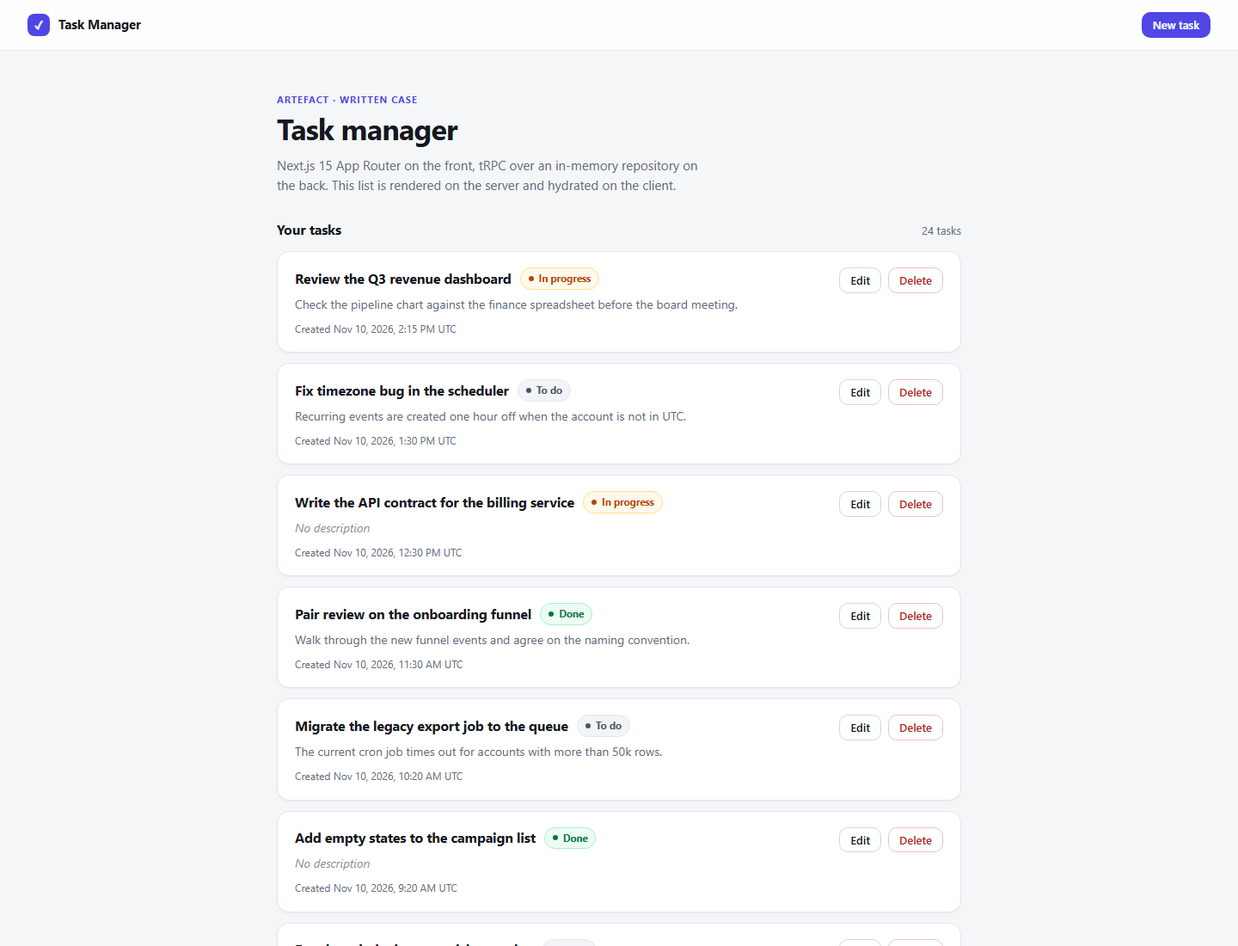
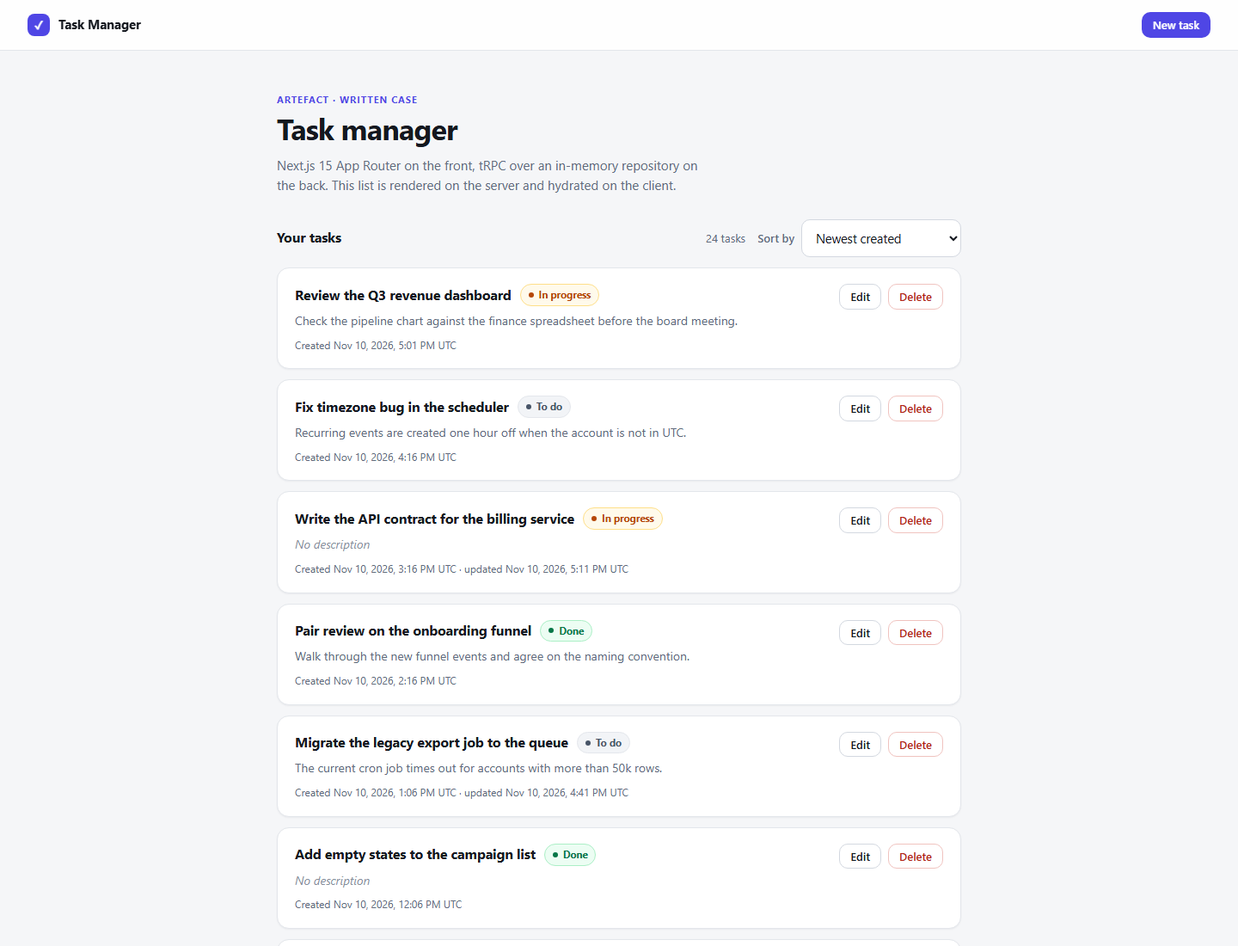
Document the update timestamp, the ordering and the test count
The README and the written answers now explain dataAtualizacao, the five orders exposed by the API, the URL-driven sort and the new comparison rules. The ASCII diagrams were rebuilt at a fixed width so the borders line up, and the screenshots were captured again against the production build, including the recently-updated view.

diff --git a/docs/answers/part-2-practical.md b/docs/answers/part-2-practical.md
@@ -26,36 +26,39 @@ npm run dev
 | Language      | TypeScript (`strict` + `noUncheckedIndexedAccess`) | 5.9           |
 | Monorepo      | npm workspaces                                     | npm 10        |
 
-The case specifies four task fields: `id`, `titulo` (required), `descricao` (optional) and `dataCriacao`. I kept those names as requested and added an optional `status` field (`todo`, `in_progress` or `done`) to make each task's state visible in the list.
+The case specifies four task fields: `id`, `titulo` (required), `descricao` (optional) and `dataCriacao`. I kept those names as requested, added an optional `status` field (`todo`, `in_progress` or `done`) to make each task's state visible in the list, and a `dataAtualizacao` timestamp that follows the same naming convention.
+
+`dataAtualizacao` starts equal to `dataCriacao` and is bumped on every edit. It gives the list a second sortable dimension (what changed most recently, regardless of when it was created) and lets the row show "updated" only when that actually happened.
 
 The status defaults to `todo`, so creating a task with only the required fields still works.
 
 ## 2. Architecture
 
 ```text
-┌───────────────────────────────────────────────────────────────────────────┐
-│ frontend/ — Next.js 15, App Router                                        │
-│                                                                           │
-│  app/page.tsx              Server Component: prefetch + HydrateClient    │
-│  app/tasks/new              Server Component: renders the form shell      │
-│  app/tasks/[id]/edit        Server Component: calls tasks.getById         │
-│  components/task-list       Client: useInfiniteQuery + delete mutation    │
-│  components/task-form       Client: useTaskForm + create/update mutation  │
+┌────────────────────────────────────────────────────────────────────────────┐
+│ frontend/ — Next.js 15, App Router                                         │
+│                                                                            │
+│  app/page.tsx              Server Component: prefetch + HydrateClient      │
+│  app/tasks/new              Server Component: renders the form shell       │
+│  app/tasks/[id]/edit        Server Component: calls tasks.getById          │
+│  components/task-list       Client: useInfiniteQuery + delete mutation     │
+│  components/task-form       Client: useTaskForm + create/update mutation   │
 │  app/api/trpc/[trpc]        Route Handler: the HTTP API entry point        │
-└──────────────────────────────────┬────────────────────────────────────────┘
+└───────────────────────────────────┬────────────────────────────────────────┘
                                    │ imports the workspace package
-┌──────────────────────────────────▼────────────────────────────────────────┐
-│ backend/ — @artefact/backend (no Next.js dependency)                      │
-│                                                                           │
-│  router.ts                 appRouter: tasks + health                      │
-│  trpc.ts                   initTRPC, superjson, errorFormatter, timing    │
-│  context.ts                per-request context, repository injection      │
-│  modules/tasks/                                                        │
+┌───────────────────────────────────▼────────────────────────────────────────┐
+│ backend/ — @artefact/backend (no Next.js dependency)                       │
+│                                                                            │
+│  router.ts                 appRouter: tasks + health                       │
+│  trpc.ts                   initTRPC, superjson, errorFormatter, timing     │
+│  context.ts                per-request context, repository injection       │
+│  modules/tasks/                                                            │
+│    task.constants.ts       limits, status order and sort values            │
 │    task.schema.ts          Zod inputs, limits and domain types             │
 │    task.router.ts          list / getById / create / update / delete       │
-│    task.repository.ts      TaskRepository interface + in-memory adapter   │
+│    task.repository.ts      TaskRepository interface + in-memory adapter    │
 │    task.seed.ts            24 fictional tasks                              │
-└───────────────────────────────────────────────────────────────────────────┘
+└────────────────────────────────────────────────────────────────────────────┘
 ```
 
 I kept the backend in its own workspace package instead of tying its implementation directly to Next.js. It contains the tRPC router, validation schemas and `TaskRepository` interface, and has no dependency on the frontend framework.
@@ -72,14 +75,16 @@ The application exposes the tRPC API through:
 /api/trpc/*
 ```
 
-| Procedure       | Type     | Input                                                       | Possible errors            |
-| --------------- | -------- | ----------------------------------------------------------- | -------------------------- |
-| `tasks.list`    | Query    | `{ limit?: 1..50 (default 8), cursor?: string }`            | `BAD_REQUEST`              |
-| `tasks.getById` | Query    | `{ id }`                                                    | `NOT_FOUND`                |
-| `tasks.create`  | Mutation | `{ titulo, descricao?, status? }`                           | `BAD_REQUEST`              |
-| `tasks.update`  | Mutation | `{ id, titulo?, descricao?, status? }` (at least one field) | `BAD_REQUEST`, `NOT_FOUND` |
-| `tasks.delete`  | Mutation | `{ id }`                                                    | `NOT_FOUND`                |
-| `health`        | Query    | No input                                                    | —                          |
+| Procedure       | Type     | Input                                                             | Possible errors            |
+| --------------- | -------- | ----------------------------------------------------------------- | -------------------------- |
+| `tasks.list`    | Query    | `{ limit?: 1..50 (default 8), cursor?: string, sort?: TaskSort }` | `BAD_REQUEST`              |
+| `tasks.getById` | Query    | `{ id }`                                                          | `NOT_FOUND`                |
+| `tasks.create`  | Mutation | `{ titulo, descricao?, status? }`                                 | `BAD_REQUEST`              |
+| `tasks.update`  | Mutation | `{ id, titulo?, descricao?, status? }` (at least one field)       | `BAD_REQUEST`, `NOT_FOUND` |
+| `tasks.delete`  | Mutation | `{ id }`                                                          | `NOT_FOUND`                |
+| `health`        | Query    | No input                                                          | —                          |
+
+`TaskSort` is `created-desc` (default), `created-asc`, `updated-desc`, `titulo-asc` or `status-asc`. The value is validated by the same Zod enum the UI uses, so an unsupported order is rejected with `BAD_REQUEST` instead of silently falling back on the server.
 
 The validation rules are defined in `task.schema.ts` and reused by the frontend and backend. The form uses `createTaskInput.safeParse` to provide immediate feedback, while the tRPC procedure validates the request again on the server.
 
@@ -103,7 +108,7 @@ For example, a validation response can include:
 
 Stack traces are available during development and removed in production. An unexpected server error is replaced by a generic message, so an internal detail never reaches the browser. When a task does not exist, the API returns `NOT_FOUND` with a message explaining that the task may have already been deleted. The edit page uses the same condition to render the Next.js not-found page.
 
-The `dataCriacao` field remains a JavaScript `Date` on both sides. I use superjson to preserve the date type during transport, avoiding manual conversion from ISO strings in the components.
+The `dataCriacao` and `dataAtualizacao` fields remain JavaScript `Date` objects on both sides. I use superjson to preserve the date type during transport, avoiding manual conversion from ISO strings in the components.
 
 ### Pagination
 
@@ -129,7 +134,15 @@ The create page is a Server Component that renders the client-side form. The edi
 
 ## 5. Behaviour and user experience
 
-The list displays the task title, description, status and creation date. Tasks are ordered from newest to oldest, with eight items loaded per page.
+The list displays the task title, description, status and creation date, with eight items loaded per page. When a task has been edited, the row also shows when it was last updated.
+
+### Ordering
+
+The list can be ordered by creation (newest or oldest), last update, title or status. The chosen order lives in the URL (`/?sort=updated-desc`), so the server component prefetches exactly that view and the link can be shared or bookmarked.
+
+The seed data makes this visible: eight of the 24 tasks were edited after being created, so "recently updated" produces a different order than "newest created". Status uses the workflow order (`todo`, `in_progress`, `done`) instead of alphabetical order, and title sorting ignores case.
+
+Each order is implemented as a total order with the task `id` as the tiebreaker. Without it, two tasks with the same timestamp could swap places between two page requests.
 
 ### Infinite scroll
 
@@ -195,6 +208,10 @@ _Figure 5 — Success feedback is displayed and the list is refreshed._
 
 _Figure 6 — On smaller screens, the task actions move below the task content._
 
+![The list ordered by most recently updated.](../screenshots/07-sort-updated.png)
+
+_Figure 7 — Ordering by last update, chosen in the list and reflected in the URL._
+
 ## 7. Tests and verification
 
 The project provides a verification command:
@@ -205,11 +222,11 @@ npm run verify
 
 It runs ESLint, a Prettier check, the TypeScript checks, the Vitest suites of both workspaces and the Next.js production build. CI runs this same command, so the local gate and the pipeline cannot drift.
 
-The backend has 24 tests. Most of them exercise the real router with an injected repository, without HTTP or mocks. Four go through the same `fetchRequestHandler` adapter the app mounts at `/api/trpc`, because that is the only place where the two promises of the wire can actually be verified: `dataCriacao` arrives as a `Date` (superjson) and a rejected input carries `fieldErrors`.
+The backend has 33 tests. Most of them exercise the real router with an injected repository, without HTTP or mocks. Four go through the same `fetchRequestHandler` adapter the app mounts at `/api/trpc`, because that is the only place where the promises of the wire can actually be verified: `dataCriacao` and `dataAtualizacao` arrive as `Date` objects (superjson) and a rejected input carries `fieldErrors`.
 
 The tests cover:
 
-1. Creating a task generates a unique ID, trims the title and normalises a whitespace-only description to `null`; the status defaults to `todo` when omitted.
+1. Creating a task generates a unique ID, trims the title and normalises a whitespace-only description to `null`; the status defaults to `todo` when omitted, and both timestamps start equal.
 2. An empty title is rejected with `BAD_REQUEST`; the exact title limit is accepted and one character more is rejected.
 3. The same boundary check for the description (1000 accepted, 1001 rejected).
 4. An unknown status is rejected.
@@ -217,19 +234,23 @@ The tests cover:
 6. An unknown cursor falls back to the first page, and the limit defaults to 8 when omitted.
 7. An invalid page size (0 or 51) is rejected.
 8. Updating a task changes only the fields included in the request, trims the title, and rejects an update without any field.
-9. An empty description clears the existing description.
-10. Reading, updating and deleting a task that does not exist return `NOT_FOUND`.
-11. Deleting a task succeeds once and returns `NOT_FOUND` when attempted again.
-12. The seed data has 24 tasks, keeps `dataCriacao` as a `Date` and passes the entity schema.
-13. A task returned to a caller cannot be used to mutate the store.
-14. Over HTTP: the date survives the wire, invalid input returns `BAD_REQUEST` with `fieldErrors.titulo`, a missing task returns 404, and in production an unexpected error exposes neither its message nor its stack.
+9. Updating keeps `dataCriacao` and bumps `dataAtualizacao`.
+10. An empty description clears the existing description.
+11. Reading, updating and deleting a task that does not exist return `NOT_FOUND`.
+12. Deleting a task succeeds once and returns `NOT_FOUND` when attempted again.
+13. The seed data has 24 tasks, keeps both timestamps as `Date` objects and passes the entity schema.
+14. A task returned to a caller cannot be used to mutate the store.
+15. Sorting works for creation (both directions), last update, title (case-insensitive) and status (workflow order), and the default order is unchanged.
+16. An unsupported sort value is rejected, and pagination keeps the requested order without repeating or skipping an item.
+17. With the seeded data, ordering by creation and by last update produce different sequences.
+18. Over HTTP: the dates survive the wire, invalid input returns `BAD_REQUEST` with `fieldErrors.titulo`, a missing task returns 404, and in production an unexpected error exposes neither its message nor its stack.
 
-The frontend has 9 tests for the pure logic behind the form and the error handling: the shared field-error mapping and the message extraction from a `TRPCClientError`.
+The frontend has 13 tests for the pure logic behind the list, the form and the error handling: the sort parser (including unknown values in the URL), the shared list input, the field-error mapping and the message extraction from a `TRPCClientError`.
 
 I also checked the production build manually:
 
-- **HTTP smoke test:** Against `npm start`, I tested create, read, update, list, delete, repeated delete and empty-title validation. I checked title trimming, description normalisation, date deserialization, `NOT_FOUND` on the second delete and `BAD_REQUEST` with `fieldErrors.titulo` for an empty title.
-- **SSR check:** I inspected the raw HTML returned for `/` and confirmed that it contains the task title `Review the Q3 revenue dashboard`. This verifies that the task content is present in the initial HTML response rather than being added only after a client-side request.
+- **HTTP smoke test:** Against `npm start`, I tested create, read, update, list, delete, repeated delete and empty-title validation. I checked title trimming, description normalisation, date deserialization, `dataAtualizacao` being bumped by an update, `NOT_FOUND` on the second delete and `BAD_REQUEST` with `fieldErrors.titulo` for an empty title.
+- **SSR check:** I inspected the raw HTML returned for `/` and for `/?sort=updated-desc`, and confirmed that each one starts with the task expected for that order. This verifies that the ordering is applied on the server and that the task content is present in the initial HTML response rather than being added only after a client-side request.
 - **Infinite-scroll check:** Using Chrome DevTools Protocol, I confirmed that 16 rows were present after hydration and all 24 were loaded after scrolling, followed by the end-of-list message.
 
 The `npm run verify` command completes successfully. The CI workflow runs the same command.
@@ -283,6 +304,7 @@ Some decisions were made to keep the implementation aligned with the scope of th
 | Shared Zod schemas                       | Keeps frontend and backend validation consistent                            | The validation schema is also included in the client bundle                        |
 | superjson                                | Preserves `Date` values across the API boundary                             | Adds some serialization overhead                                                   |
 | Cursor-based pagination                  | Handles changes to the list more predictably while users browse             | The cursor is an implementation detail that the UI does not interpret              |
+| Sorting evaluated per request            | One implementation covers every order without extra indexes or caching      | Editing an item between two pages can move it out of the current cursor window     |
 | In-memory repository behind an interface | Meets the requirements without introducing a database                       | Data is lost on restart, and the store is limited to a single application instance |
 | Hand-written CSS                         | Avoids adding another dependency for a small application                    | Reusable styling utilities would be useful as the interface grows                  |
 

diff --git a/README.md b/README.md
@@ -5,7 +5,8 @@ A small task manager built for the **Software Engineer (Senior, Brazil)** writte
 with server-side rendering on the list page and an infinite-scroll bonus.
 
 > The full written answers (theory + practical) are in [`docs/answers`](docs/answers).
-> The generated PDF submission is not committed on purpose — it contains personal data.
+> `npm run submission` turns this README and those answers into two PDFs; the output is
+> not committed on purpose — it contains personal data.
 
 ![Task list](docs/screenshots/01-task-list.png)
 
@@ -51,30 +52,36 @@ Quality gate (the same command CI runs):
 npm run verify       # lint -> format:check -> typecheck -> test -> build
 ```
 
+Submission documents (needs Chrome or Edge installed):
+
+```bash
+npm run submission   # docs/answers + README -> PDF, written to submission/
+```
+
 ## Architecture
 
 ```
 ┌──────────────────────────────────────────────────────────────────────┐
 │ frontend/  (Next.js 15, App Router)                                  │
 │                                                                      │
-│  app/page.tsx ── server component ── prefetch + HydrateClient         │
-│  app/tasks/new ─┐                                                    │
-│  app/tasks/[id]/edit ─┴─ server component ── caller.tasks.getById     │
-│  components/* ── client components ── useInfiniteQuery / useMutation  │
-│  app/api/trpc/[trpc]/route.ts ── fetch adapter (the only HTTP surface) │
-└───────────────────────────────┬──────────────────────────────────────┘
-                                │ imports (workspace package, type-safe)
-┌───────────────────────────────▼──────────────────────────────────────┐
+│ app/page.tsx ── server component ── prefetch + HydrateClient         │
+│ app/tasks/new ─┐                                                     │
+│ app/tasks/[id]/edit ─┴─ server component ── caller.tasks.getById     │
+│ components/* ── client components ── useInfiniteQuery / useMutation  │
+│ app/api/trpc/[trpc]/route.ts ── fetch adapter (only HTTP surface)    │
+└────────────────────────────────┬─────────────────────────────────────┘
+                                 │ imports (workspace package, type-safe)
+┌────────────────────────────────▼─────────────────────────────────────┐
 │ backend/  (@artefact/backend — no Next.js dependency)                │
 │                                                                      │
-│  router.ts ── tasks router + health                                  │
-│  trpc.ts   ── initTRPC, superjson, error formatter, timing middleware │
-│  context.ts ── per-request context (repository injection)            │
-│  modules/tasks/                                                     │
-│    task.constants.ts  limits shared with the UI (no Zod in the client bundle) │
-│    task.schema.ts     Zod inputs, entity schema, field-error mapping         │
-│    task.router.ts     list / getById / create / update / delete      │
-│    task.repository.ts TaskRepository port + in-memory adapter        │
+│ router.ts ── tasks router + health                                   │
+│ trpc.ts   ── initTRPC, superjson, error formatter, timing            │
+│ context.ts ── per-request context (repository injection)             │
+│ modules/tasks/                                                       │
+│   task.constants.ts  limits and sort values (Zod-free)               │
+│   task.schema.ts     Zod inputs, entity schema, field errors         │
+│   task.router.ts     list / getById / create / update / delete       │
+│   task.repository.ts TaskRepository port + in-memory adapter         │
 └──────────────────────────────────────────────────────────────────────┘
 ```
 
@@ -88,15 +95,21 @@ Single endpoint: `POST|GET /api/trpc/*` (fetch adapter). Procedures:
 
 | Procedure       | Type     | Input                                                       | Errors                     |
 | --------------- | -------- | ----------------------------------------------------------- | -------------------------- |
-| `tasks.list`    | query    | `{ limit?: 1..50 (default 8), cursor?: string }`            | `BAD_REQUEST`              |
+| `tasks.list`    | query    | `{ limit?: 1..50 (default 8), cursor?: string, sort? }`     | `BAD_REQUEST`              |
 | `tasks.getById` | query    | `{ id }`                                                    | `NOT_FOUND`                |
 | `tasks.create`  | mutation | `{ titulo, descricao?, status? }`                           | `BAD_REQUEST`              |
 | `tasks.update`  | mutation | `{ id, titulo?, descricao?, status? }` (at least one field) | `BAD_REQUEST`, `NOT_FOUND` |
 | `tasks.delete`  | mutation | `{ id }`                                                    | `NOT_FOUND`                |
 | `health`        | query    | —                                                           | —                          |
 
-Field names (`titulo`, `descricao`, `dataCriacao`) follow the case specification; everything else
-in the codebase is in English. `dataCriacao` is a real `Date` on both sides (superjson).
+Field names (`titulo`, `descricao`, `dataCriacao`, `dataAtualizacao`) follow the case specification;
+everything else in the codebase is in English. `dataCriacao` and `dataAtualizacao` are real `Date`
+objects on both sides (superjson). A task starts with both timestamps equal, and every update bumps
+`dataAtualizacao` without touching `dataCriacao`.
+
+`sort` accepts `created-desc` (default), `created-asc`, `updated-desc`, `titulo-asc` and `status-asc`;
+an unsupported value is a `BAD_REQUEST`. Every order is a total order with the task id as tiebreaker,
+so two pages never disagree about the position of equal timestamps.
 
 Pagination is **keyset**: `nextCursor` is the id of the last item, and the next page starts after
 it. With `offset/take`, deleting a row between two requests would skip an item; with a cursor the
@@ -107,6 +120,9 @@ only consequence is that a deleted cursor restarts from the first page.
 - **SSR list** — `app/page.tsx` prefetches the first page in a server component, dehydrates the
   cache and hydrates the client component. `dynamic = 'force-dynamic'` because the in-memory store
   changes per request (otherwise Next would serve build-time HTML).
+- **Ordering** — creation (both directions), last update, title and status. The order lives in the
+  URL (`/?sort=updated-desc`), so the server prefetches exactly that view, the page is shareable and
+  the change is a `startTransition` navigation instead of a client-side reshuffle.
 - **Infinite scroll** — TanStack `useInfiniteQuery` + `IntersectionObserver` sentinel with
   `rootMargin: 240px`; the sentinel only exists while `hasNextPage` is true.
 - **Delete with feedback** — inline two-step confirmation (no `window.confirm`), per-row pending
@@ -127,6 +143,7 @@ only consequence is that a deleted cursor restarts from the first page.
 | Zod as the single source of validation                    | No rule drift between client and server                                                                | The schema ships to the client (~13 KB gzipped)                                            |
 | superjson                                                 | `dataCriacao` stays a `Date` instead of a stringly-typed field                                         | Small payload overhead                                                                     |
 | Keyset pagination                                         | Correct under concurrent deletes                                                                       | Cursor is opaque to the UI                                                                 |
+| Sort per request                                          | One comparator covers every order, no extra indexes                                                    | Editing an item between two pages can move it out of the current cursor window             |
 | In-memory repository behind an interface                  | The case does not need a database; the domain does not care either                                     | Data resets on restart, single instance only                                               |
 | Hand-written CSS                                          | No build step or extra dependency for a case this size                                                 | No utility classes for future screens                                                      |
 | `npm` workspaces with TypeScript sources                  | No build/watch step for the backend package                                                            | Consumers need `transpilePackages` (configured)                                            |
@@ -137,16 +154,19 @@ only consequence is that a deleted cursor restarts from the first page.
 npm test        # vitest run in both workspaces
 ```
 
-**24 backend tests.** Twenty of them drive the real router with an injected repository (no HTTP, no
-mocks of the code under test); four go through the same `fetchRequestHandler` adapter the app mounts,
-which is the only way to verify what the wire actually promises: `dataCriacao` as a `Date` (superjson),
-`fieldErrors` on `BAD_REQUEST`, and a production `INTERNAL_SERVER_ERROR` that leaks neither message nor
-stack. They cover creation with trimmed title and normalised description, both length boundaries, an
-unknown status, keyset pagination with ordering and no duplicates, an unknown cursor, the default page
-size, partial updates, `NOT_FOUND` on update/delete/getById, defensive copies, and the 24 seeded tasks.
+**33 backend tests.** Twenty-nine of them drive the real router with an injected repository (no HTTP,
+no mocks of the code under test); four go through the same `fetchRequestHandler` adapter the app
+mounts, which is the only way to verify what the wire actually promises: `dataCriacao` and
+`dataAtualizacao` as `Date` objects (superjson), `fieldErrors` on `BAD_REQUEST`, and a production
+`INTERNAL_SERVER_ERROR` that leaks neither message nor stack. They cover creation with trimmed title
+and normalised description, both length boundaries, an unknown status, keyset pagination with
+ordering and no duplicates, an unknown cursor, the default page size, partial updates, the update
+timestamp, every sort order, `NOT_FOUND` on update/delete/getById, defensive copies, and the 24
+seeded tasks.
 
-**9 frontend tests** cover the pure logic behind the form and the error handling: the shared field-error
-mapping and message extraction from a `TRPCClientError`.
+**13 frontend tests** cover the pure logic behind the list, the form and the error handling: the sort
+parser (including unknown values in the URL), the shared list input, the field-error mapping and
+message extraction from a `TRPCClientError`.
 
 The production build was also smoke-tested end to end (create → update → list → delete → double delete →
 empty title), including the SSR HTML assertion that seeded tasks are present in the first response.
@@ -165,7 +185,7 @@ backend/    domain + tRPC router (no Next.js dependency)
 frontend/   Next.js app: route handler, server components, client components
 docs/
   answers/          written answers (Part 1 and Part 2)
-  screenshots/      images used by the README and by the PDF
-scripts/            submission PDF builder (HTML -> Chrome headless)
-submission/         generated PDF + screenshots (gitignored)
+  screenshots/      images used by the README and by the PDFs
+scripts/            submission PDF builder (Markdown -> HTML -> Chrome headless)
+submission/         generated PDFs + screenshots (gitignored)
 ```
